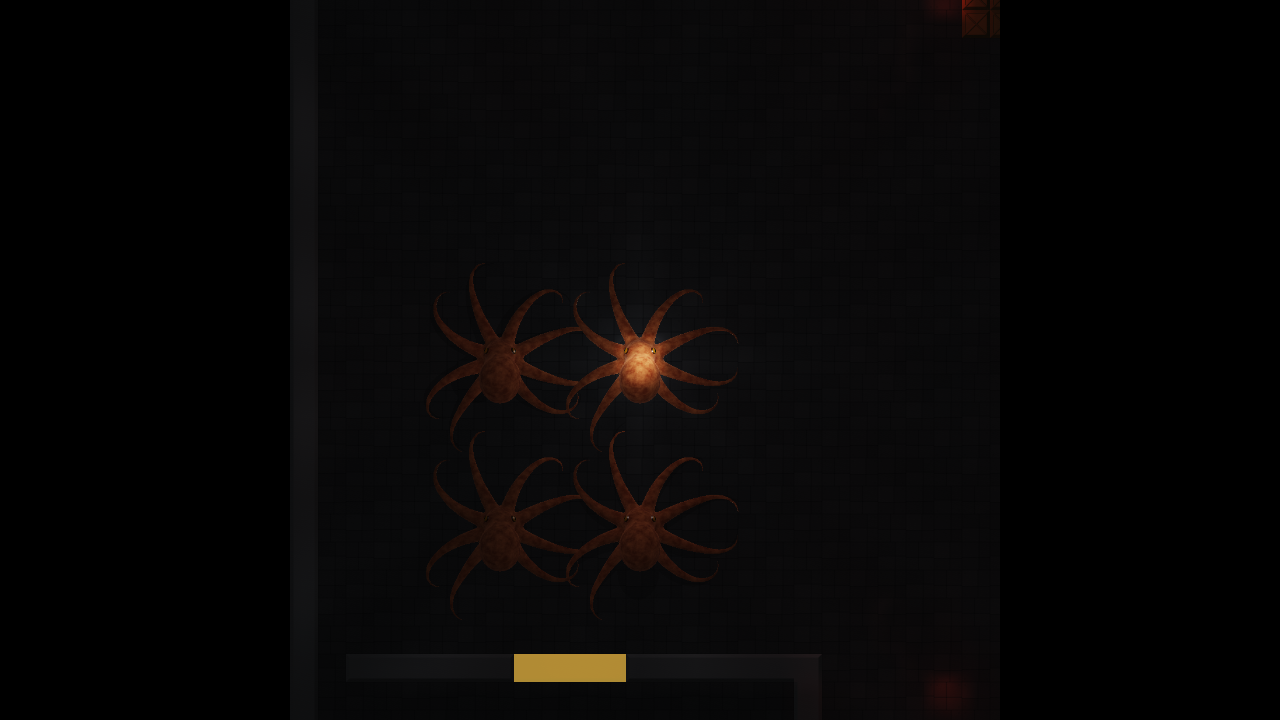
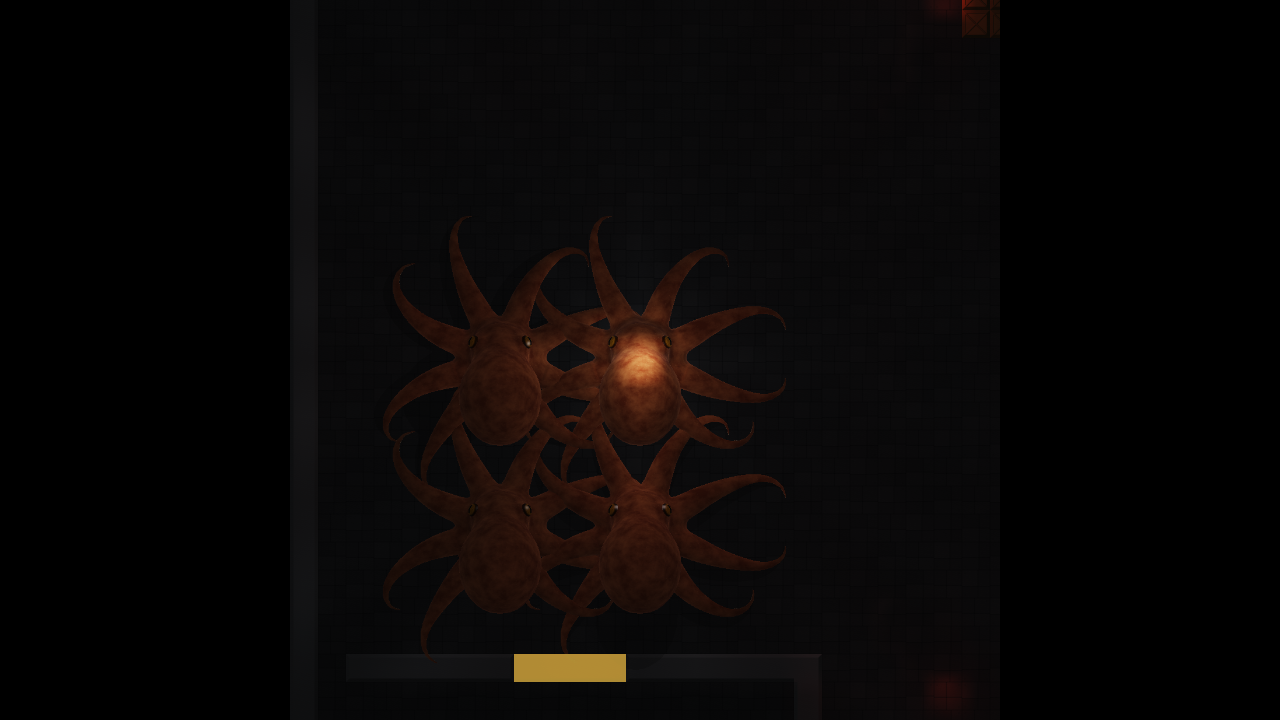
docs: octopus body plan (#106) -- CONTROLS (stretch, the SIZES table in plain language, swing's sign corrected), README (dials, length law, raylib bone-scale finding and compensation, the raylib normals finding), index.html Body plan section; in-game shots beside marines (--mix)

Changed region(s): [[0.3125, 0.3056, 0.625, 0.8861], [0.3438, 0.7333, 0.375, 0.7639]]

diff --git a/art/characters/octopus/index.html b/art/characters/octopus/index.html
@@ -16,6 +16,17 @@ code {font-size:.87em}details {margin:18px 0}footer {margin:40px 0;color:#b6bdc0
 <h1>Octopus — whole animal (2026-10-27)</h1>
 <p>One body plus eight instances of the one-arm proof's arm, joined by a continuous crown and web. Each arm has six bounded controls of its own (<a href="CONTROLS.md">CONTROLS.md</a>), and the same pure pose function drives Blender and the real game. Render-only prototype; the size is one constant, still to be decided.</p>
 <div class="controls"><a class="button" href="prototype/octopus/octopus_hero.blend">Hero .blend (editable, suckers modelled)</a><a class="button" href="prototype/octopus/octopus_game.glb">Game GLB (12.2k tris, 142 joints)</a><a class="button" href="CONTROLS.md">Control layout</a><a class="button" href="README.md">Commands &amp; measurements</a><a class="button" href="previews/patterns/lineup_top.jpg">Skin patterns</a></div>
+<h2>Body plan (#106): size, arm length, stretch</h2>
+<p>Size and proportions are now dials, one row of the <code>SIZES</code> table (see <a href="CONTROLS.md">CONTROLS.md</a>): body length in metres, arm length against body length, and how far an arm can stretch. Three readings of &ldquo;the body is about a marine&rsquo;s size&rdquo;, all beside the game&rsquo;s own space marine (1.885 m) at true scale and all spanning <b>2.0 marines</b> tip to tip with straight rest arms (3.77 m, 12 game tiles) and <b>2.5 marines</b> fully stretched (4.71 m, 15 tiles). <b>B is the default</b>; switching is one value. The choice is Erik&rsquo;s.</p>
+<figure><img src="previews/bodyplan/options_top.jpg" alt="Three body-plan options from above beside a marine"><figcaption>From above, the game camera&rsquo;s view, the same camera for all three. Top row at rest; bottom row with R2 and R3 fully stretched toward the marine. A: body 1.0 m, long arms (1.78&times; body). B: body 1.4 m, arms 1.24&times; body. C: body 1.885 m, short heavy arms (0.89&times; body).</figcaption></figure>
+<figure><img src="previews/bodyplan/options_34.jpg" alt="Three body-plan options three-quarter"><figcaption>Three-quarter, same layout.</figcaption></figure>
+<div class="grid">
+<figure><img src="previews/bodyplan/stretch_strip.jpg" alt="One arm at stretch 0, 0.5, 1"><figcaption>The new <code>stretch</code> control on one arm (default size): 0 / 0.5 / 1 = 1.73 / 1.97 / 2.20 m. The arm keeps its volume, so it thins to 85 % at full stretch. The crown and the junction do not move.</figcaption></figure>
+<figure><img src="previews/bodyplan/game/rest_0060.png" alt="Default octopus at rest beside marines in the game"><figcaption>Real game (main.py, playground), default size B at rest beside three marines (drawn 6 tiles tall): about 11.7 tiles across with the curled rest arms.</figcaption></figure>
+<figure><img src="previews/bodyplan/game/reach_0060.png" alt="Default octopus reaching in the game"><figcaption>Real game: front-left arm stretched to 0.8 (raylib skin, the thinning through bone scale).</figcaption></figure>
+<figure><img src="previews/bodyplan/game/mix_0105.png" alt="Octopus swimming beside marines"><figcaption>Real game: swim stroke with the two front arms stretching.</figcaption></figure>
+</div>
+<p class="muted">Per option: <a href="previews/bodyplan/mid_bulk_top.jpg">A top</a> · <a href="previews/bodyplan/mid_bulk_34.jpg">A 3/4</a> · <a href="previews/bodyplan/mid_top.jpg">B top</a> · <a href="previews/bodyplan/mid_34.jpg">B 3/4</a> · <a href="previews/bodyplan/mid_heavy_top.jpg">C top</a> · <a href="previews/bodyplan/mid_heavy_34.jpg">C 3/4</a>. Everything else on this page is now the default size B.</p>
 <h2>Views</h2>
 <div class="grid">
 <figure><img src="previews/octopus/top_down.png" alt="Top-down rest pose"><figcaption>Top-down, the game camera's view: eight arms, mirrored rest</figcaption></figure>

diff --git a/art/characters/octopus/README.md b/art/characters/octopus/README.md
@@ -39,14 +39,14 @@ simulation file touched.
   ≈ 0.45, eye ≈ 0.9), spliced in by `charkit.glbtex.replace_image`, plus the
   normal map.
 
-## Numbers (prototype/octopus/*.json)
+## Numbers (prototype/octopus/*.json; default size `mid` since #106)
 
 | | hero (.blend) | game (.glb) |
 |---|---:|---:|
-| triangles | 132,512 | **12,200** |
-| vertices | 67,512 | 6,108 authored / 8,471 loaded |
+| triangles | 97,952 (132,512 at `proof` size) | **12,200** |
+| vertices | 49,656 | 6,108 authored / 8,502 loaded |
 | joints | 270 | **142** |
-| modelled suckers | 624 | 0 (baked) |
+| modelled suckers | 336 (624 at `proof` size) | 0 (baked) |
 
 Runtime, measured through the loaded GLB and raylib's native CPU skinning
 (`runtime_octopus.py --benchmark`, 120 samples, methodology as for the arm).
@@ -54,17 +54,22 @@ These are CPU timings, NOT whole-game FPS:
 
 | CPU per frame | 1 octopus median (p95) | 4 octopi median |
 |---|---:|---:|
-| controls + `pose_octopus` | 3.14 ms (3.38) | 12.3 ms |
-| write 142 joint transforms | 0.69 ms | 2.73 ms |
-| raylib skin + upload | 0.17 ms | 0.66 ms |
-| **total** | **4.01 ms (4.28)** | **15.7 ms** |
+| controls + `pose_octopus` | 3.21 ms (4.16) | 12.9 ms |
+| write 142 joint transforms | 0.73 ms | 2.92 ms |
+| raylib skin + upload | 0.17 ms | 0.68 ms |
+| **total** | **4.12 ms (5.39)** | **16.6 ms** |
+| total, two front arms stretching | 4.17 ms (4.55) | 16.9 ms |
+
+(Before #106: 4.01 ms (4.28) / 15.7 ms; the stretch adds the scale output and,
+for a stretched arm, the compensated translation and the scale write.)
 
 The skinning itself is cheap. The cost is the pure-Python pose and write; the
 first optimisation would be to batch the 8 arm recursions, since a scalar loop
 per arm is not needed.
 
-Loaded raylib skin vs the NumPy reference: ≤ 5.7 µm over 36 poses (10 µm
-gate). Blender's evaluated hero skin vs the reference: ≤ 1.4 µm.
+Loaded raylib skin vs the NumPy reference: ≤ 11.4 µm over 54 poses, 18 of them
+with stretched arms (gate 10 µm times the size's scale, 19.7 µm: float32 error grows
+with coordinate size; it was 5.7 µm at scale 1). Blender's evaluated hero skin vs the reference: ≤ 1.4 µm.
 
 Property checks (`verify_octopus.py`, report in
 `prototype/octopus/property_report.json`):
@@ -117,6 +122,76 @@ The steps, in order:
 
 `--shots` needs an ABSOLUTE prefix: the tool changes into the root checkout
 before main.py runs.
+
+## Body plan (#106): size, arm/body ratio, stretch
+
+Size and proportions are now dials, one row of `SIZES` in
+`scripts/octopus_math.py` (plain-language table in [CONTROLS.md](CONTROLS.md)):
+`body_length_m`, `arm_body_ratio` (rest arm, crown root to tip, over the body
+length; the arm keeps the crown's girth) and `stretch_max`. `OCTOPUS_SCALE` is
+now derived (`body_length_m / 0.71`). Switch with `om.set_size(name)` or
+`OCTOPUS_SIZE=<row>` for any build or tool. Rows: `mid` (option B, the
+default), `mid_bulk` (A), `mid_heavy` (C), and `proof` (the pre-#106 animal at
+scale 1, kept rebuildable). Each mid row spans 2.0 marines straight at rest and
+2.5 fully stretched (3.77 / 4.71 m; 12 / 15 game tiles, since the renderer draws
+the 1.885 m marine 6 tiles tall; 11.3 / 14.2 tiles at a strict 0.333 m).
+
+**Arm length law.** Per hero segment a length factor, exactly 1 for the five
+segments inside the crown and ramped in (smoothstep) over the three segments
+past the junction ring, so the junction never moves and the taper has no kink.
+The rest length (`ARM_LAMBDA`, solved from the row) is baked into the bind mesh
+(`bind_x`, piecewise linear with a knot at each hero joint, so the proof's
+two-joint weights stay exact); the hero keeps only the sucker stations whose
+rest spacing meets the proof's own spacing rule (option B: 97,952 hero
+triangles instead of 132,512; the game mesh is unchanged at 12,200).
+
+**Stretch** (7th arm control, 0..1). The same ramp carries the elongation
+`1 + stretch (stretch_max - 1)`; each joint gets a UNIFORM scale
+`1 / sqrt(elongation of its incoming segment)` (volume conserving: measured arm
+volume +0.9 % at 0.5, +1.7 % at 1). Joints 0..6 always stay at scale 1, so the
+crown is bit-identical under any stretch.
+
+**In the game.** raylib 5.5.0.4's CPU skin applies a frame pose's scale after
+rotation and translation, in model axes about the model origin (measured: a
+bone scaled to 0.5 threw its vertices 0.33 m). For a uniform scale that is
+still exact when the translation is pre-compensated, which
+`runtime_octopus.LiveOctopus.write_pose` does (`p / s + (s - 1) R b`). Loaded
+raylib skin vs the NumPy reference with stretched poses: <= 5.7 um; the same
+check without the compensation is off by 206 mm and without the scale by 9 mm,
+so the gate can fail. Blender honours the uniform bone scale natively (hero
+parity 2.4 um incl. the stretched reach).
+
+```powershell
+& $py "$o/scripts/verify_octopus.py"                                                  # also checks every SIZES row
+& $blender -b --factory-startup -P "$o/scripts/build_bodyplan.py" -- --root $breach   # ~4 min, the three options + strip
+& $py "$o/scripts/package_bodyplan.py"                                                # labelled sheets
+& $py "$o/scripts/runtime_octopus.py" --root $breach --mix 0 --offset 14,-3 --pose stretch --shots "$o/previews/bodyplan/game/mix" --frames 60,105 --focus 30:24:17,43 -- --level playground
+```
+
+(`--pose rest` / `--pose reach` give the two stills in `game/`.) `--mix N`
+draws only the Nth player as the octopus (the rest keep their own
+looks, the marines) and `--offset` moves where it is DRAWN, render-side only.
+Pictures: `previews/bodyplan/` (`options_top.jpg`, `options_34.jpg`,
+`<row>_top.jpg`, `<row>_34.jpg`, `stretch_strip.jpg`, `game/`). In the game
+the default octopus at rest measures about 11.7 tiles across with its curled
+rest arms (12 straight), beside marines drawn 6 tiles tall.
+
+**Found while doing this, not fixed (other systems):**
+- raylib 5.5.0.4's CPU skin gets the NORMALS of every posed limb wrong: a pure
+  bone translation of 1 m turns them by up to ~89 degrees and scales them 0.03x to 2x
+  (measured on `animNormals`), and `marine_shader` lights with them. It
+  predates #106 (an unstretched curl already deviates by up to 95 degrees on
+  that arm) and touches every skinned look; stretch makes the octopus's
+  worse. Not visible at the playground's light level in the shots taken.
+- `swing`'s sign was documented backwards: positive turns an arm toward the
+  BACK on both sides. The control is unchanged; CONTROLS.md now says so.
+- `verify_octopus.py` compared posed (scaled) areas against unscaled rest
+  areas; harmless at scale 1, wrong at any other. Fixed.
+
+**Changed expectations, on purpose:** the segment-length check is now
+"equals the length law" (it was "equals STEP"), the hero section-area check is
+measured against the thinning law's expectation, and the raylib parity gate
+scales with the size.
 
 ## Patterns (#113)
 
@@ -208,9 +283,8 @@ within 1/255 on 8 (albedo) and 5 (normal) texels (GPU bake noise).
   and through each other.
 - **The GLB is 8.3 MB.** The normal map is exported as a 16-bit PNG; making it
   8-bit would roughly halve that.
-- The game preview draws every unit as an octopus at the marine's scale, so
-  each is about 9 tiles wide; the size is Erik's call, set by
-  `OCTOPUS_SCALE`. The demo loop switches from walk to swim without a blend.
+- The game preview draws every unit as an octopus (use `--mix` for one
+  octopus among the marines). The size is now the SIZES row (#106). The demo loop switches from walk to swim without a blend.
 
 ## Systems
 

diff --git a/art/characters/octopus/CONTROLS.md b/art/characters/octopus/CONTROLS.md
@@ -14,8 +14,11 @@ Pure Python + NumPy, deterministic, no Blender, no game. It returns one head
 position and one rotation (relative to the bind pose) per bone, in
 `om.bones(lod)` order (`"game"`: 142 bones, `"hero"`: 270). A value outside its
 range raises `ValueError`; nothing is clamped or extrapolated.
+`pose_octopus(..., with_scale=True)` also returns one scale per bone: the
+thinning of a stretched arm. A skin that drops it shows a stretched arm at its
+rest thickness.
 
-## Per arm: six floats (`ArmParams`), arms in order L1 L2 L3 L4 R1 R2 R3 R4
+## Per arm: seven floats (`ArmParams`), arms in order L1 L2 L3 L4 R1 R2 R3 R4
 
 L = the animal's left. 1 is the front pair and 4 the back pair. Every sign is
 mirrored, so the same numbers on L_n and R_n give a mirror-symmetric pose.
@@ -27,16 +30,21 @@ mirrored, so the same numbers on L_n and R_n give a mirror-symmetric pose.
 | `twist` | -1 .. 1 | Axial twist spread evenly along the arm, ±100° at the tip. Together with `curl` it turns a planar curl into a 3-D helix and rolls the suckers. |
 | `tip_curl` | -1 .. 1 | Extra bend on the distal 45 % of the arm, in the same plane as `curl`. A negative value makes an S-curve or flicks the tip. |
 | `lift` | -1 .. 1 | Root pitch, ±40°. A positive value raises the arm off the ground. The pitch is bent in smoothly over the first 6 joints (the root), not pivoted at one point. |
-| `swing` | -1 .. 1 | Root yaw inside the crown, ±18°. A positive value swings the arm toward the front. It is bent in over the same root joints. |
+| `swing` | -1 .. 1 | Root yaw inside the crown, ±18° at the root (the tip moves ±14° around the crown). A positive value swings the arm toward the BACK, on both sides (measured 2026-10-27; this table said "front" before). It is bent in over the same root joints. |
+| `stretch` | 0 .. 1 | Makes the arm longer and thinner, as a real octopus arm does when it reaches. 0 is the rest length. 1 is the size's `stretch_max` (about 1.4 times as long for the mid size). The arm keeps its volume: its thickness shrinks as 1 / √(length factor), so at full stretch it is about 85 % as thick. Only the free arm stretches. The part inside the crown and the junction never move, and the stretch fades in over the first three segments past the junction. |
 
-All six respond smoothly and keep the arm's length. Each of the 32 segments
-keeps its length exactly, so "reach" means pointing the arm (`lift`, `swing`,
-`curl` → 0), never stretching it. Real octopus arms do stretch; that is not
-modelled.
+All seven respond smoothly. Each of the 32 segments keeps exactly the length
+the size and `stretch` give it, so bending never stretches an arm. Reaching
+is pointing the arm (`lift`, `swing`, `curl` → 0) plus `stretch`.
+`stretch` does not change what the other six mean: `curl` 1 is still 5.35 rad
+of total bend, so a stretched arm curls into a wider coil.
 
 **Independence.** Arm k's bones depend only on `arms[k]` and on the two shared
 body controls `crown_spread` and `body_pitch`. `verify_octopus.py` checks this
-by moving one arm and confirming the other seven stay bit-identical.
+by moving one arm and confirming the other seven stay bit-identical. For
+`stretch` it also checks the skin itself: changing arm k's stretch moves only
+arm k's own free-arm vertices. Every other arm, the crown, the web, the
+junction rings, the eyes and the siphon stay bit-identical.
 
 ## Body: six floats (`BodyParams`)
 
@@ -49,14 +57,54 @@ by moving one arm and confirming the other seven stay bit-identical.
 | `crown_spread` | -1 .. 1 | Shared root pitch for all arms, added to each arm's `lift`. -1 closes the crown 80° down into a bundle (jet swimming), +1 opens it 25° up. The response is smooth through 0. |
 | `body_pitch` | -1 .. 1 | Pitches the whole animal ±90° about the crown. At -1 the oral face points forward and the mantle leads. |
 
+## Size and proportions (the SIZES table)
+
+How big the octopus is, and how long its arms are against its body, are not
+fixed numbers. Each size is one row of a small table, `SIZES` in
+`scripts/octopus_math.py`. The row in use is named by `SIZE`. Switching is one
+value: `om.set_size("mid_heavy")`, or the environment variable
+`OCTOPUS_SIZE=mid_heavy` for a build. A baby or a boss will be one more row.
+
+A row has three dials:
+
+| dial | what it means |
+|---|---|
+| `body_length_m` | How long the body is in metres, from the front of the head to the back of the mantle. Everything else scales with it. |
+| `arm_body_ratio` | How long an arm is, from its root inside the crown to its tip, divided by the body length. The arm's thickness stays the body's, because the arm grows out of the crown. So a higher ratio gives longer, more slender arms, and a lower ratio gives shorter, stouter ones. |
+| `stretch_max` | How much longer an arm gets at `stretch` = 1. |
+
+The three "mid" rows are the three readings of "the body is about a marine's
+size". Each spans 2.0 marines from arm tip to arm tip with the arms straight at
+rest, and 2.5 marines with them fully stretched (a marine is the game's space
+marine, 1.885 m):
+
+| row | option | body length | mantle (wide x long) | arm at rest | arm thickness at the root | arm / body | stretch_max |
+|---|---|---:|---:|---:|---:|---:|---:|
+| `mid_bulk` | A: body like a marine in bulk, long arms | 1.00 m | 0.66 x 0.78 m | 1.78 m | 0.21 m | 1.78 | 1.34 |
+| `mid` | **B: the default**, in between | 1.40 m | 0.93 x 1.08 m | 1.73 m | 0.30 m | 1.24 | 1.40 |
+| `mid_heavy` | C: body as long as a marine is tall, short heavy arms | 1.885 m | 1.25 x 1.46 m | 1.68 m | 0.40 m | 0.89 | 1.50 |
+
+All three spans are 3.77 m at rest and 4.71 m stretched. In the game the
+marine is drawn 6 tiles tall, so that is 12 tiles at rest and 15 tiles
+stretched. At a strict 0.333 m per tile it would be 11.3 and 14.2 tiles.
+
+The arm is about one marine long in every option. What changes is how big the
+body is, and so how thick the arms are. `proof` is the animal before this
+change (authored units, the 1.2 m arm) and is kept so it can be rebuilt.
+Pictures: `previews/bodyplan/`.
+
 ## What a controller does not get (yet)
 
 - **No contact, collision or ground.** Arms can pass through the floor, the body and each other. Both suckers and contact are visual only.
 - **Some full-range combinations fold the crown skin.** An example is every arm at `lift` +1 together with `crown_spread` +1, which is 65° up. The arm tubes stay sound across the whole range. The crown and web between the arm roots is what folds: in the random full-range checks the worst pose had 72 inverted slivers out of 12k triangles. The shown poses fold at most 8. Treat |`lift` + spread| > 45° as "looks bad up close".
+- **Shading of posed arms in the game is not exact.** raylib's CPU skin gets
+  the surface normals of every posed limb wrong (measured, all looks, not just
+  the octopus; worse on a stretched arm). It did not show at the playground's
+  light level, but a brightly lit close-up may. See the README.
 - **No speed limits.** A controller that jumps a control from one value to another in a single frame makes the pose jump too. Rate limiting belongs in the controller.
 
 ## Example poses
 
-`om.named_poses()` holds rest, curled, reach (L1 alone), swim and walk.
+`om.named_poses()` holds rest, curled, reach (L1 alone, stretched to 0.8), swim and walk.
 `om.swim_cycle(t)` and `om.walk_cycle(t)` are demonstration loops, not
 behaviour.
